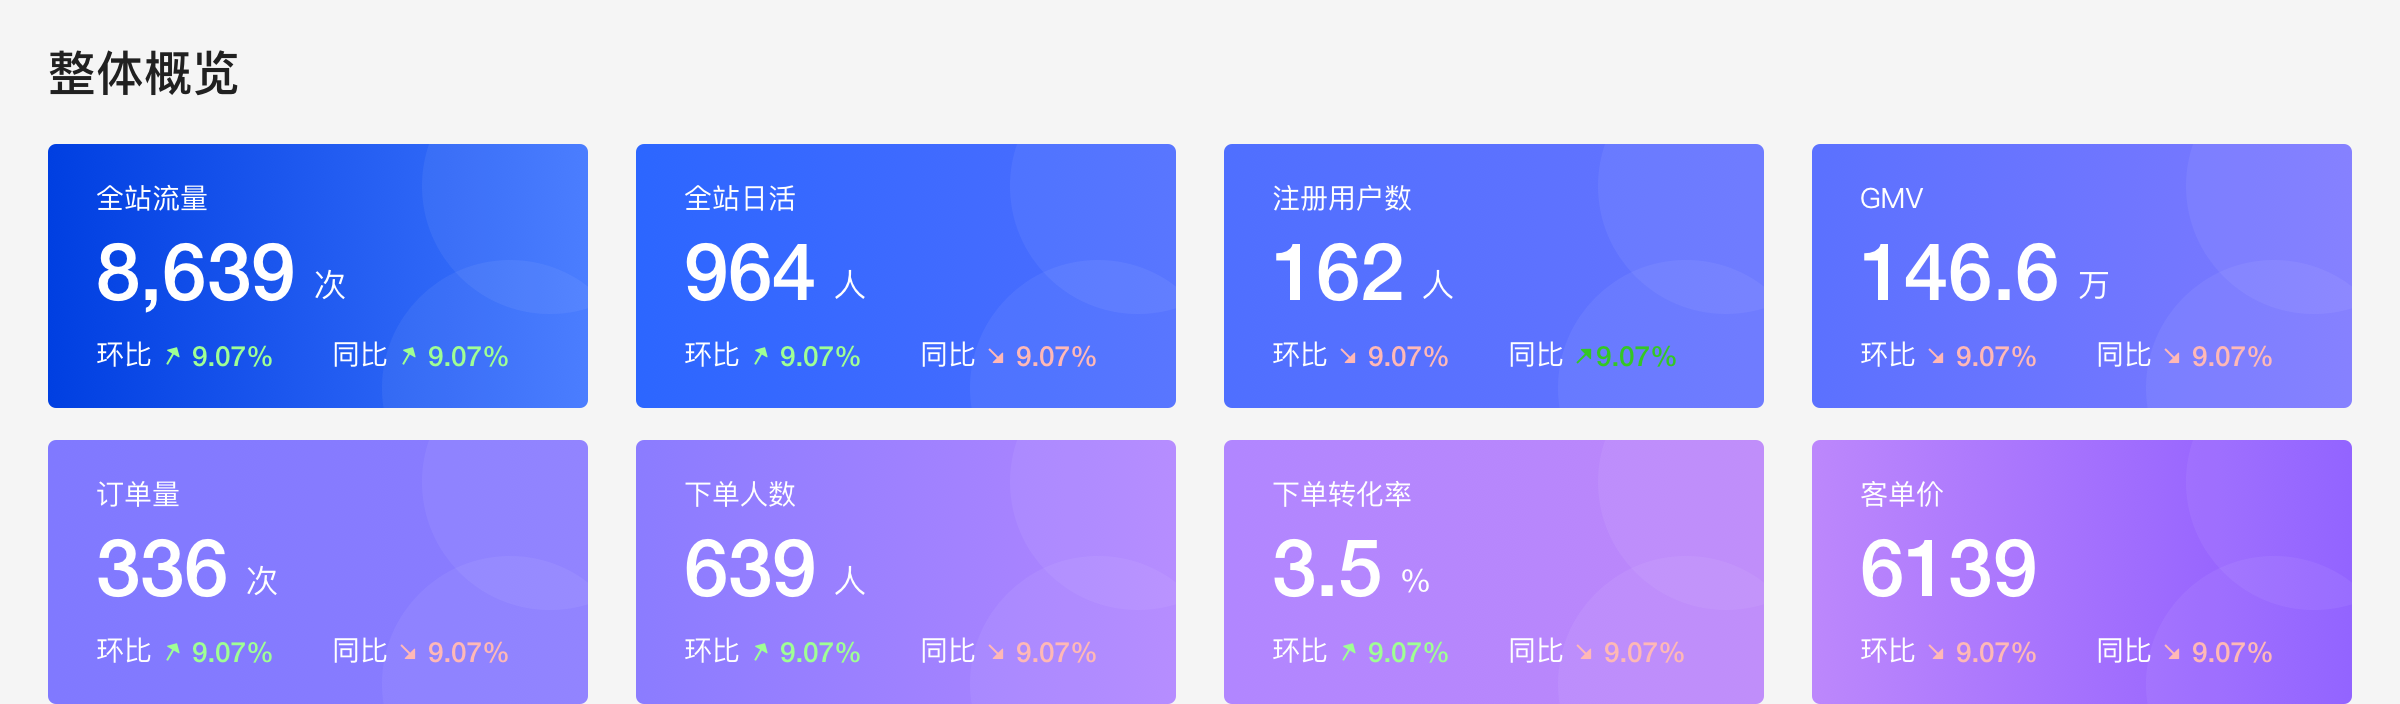
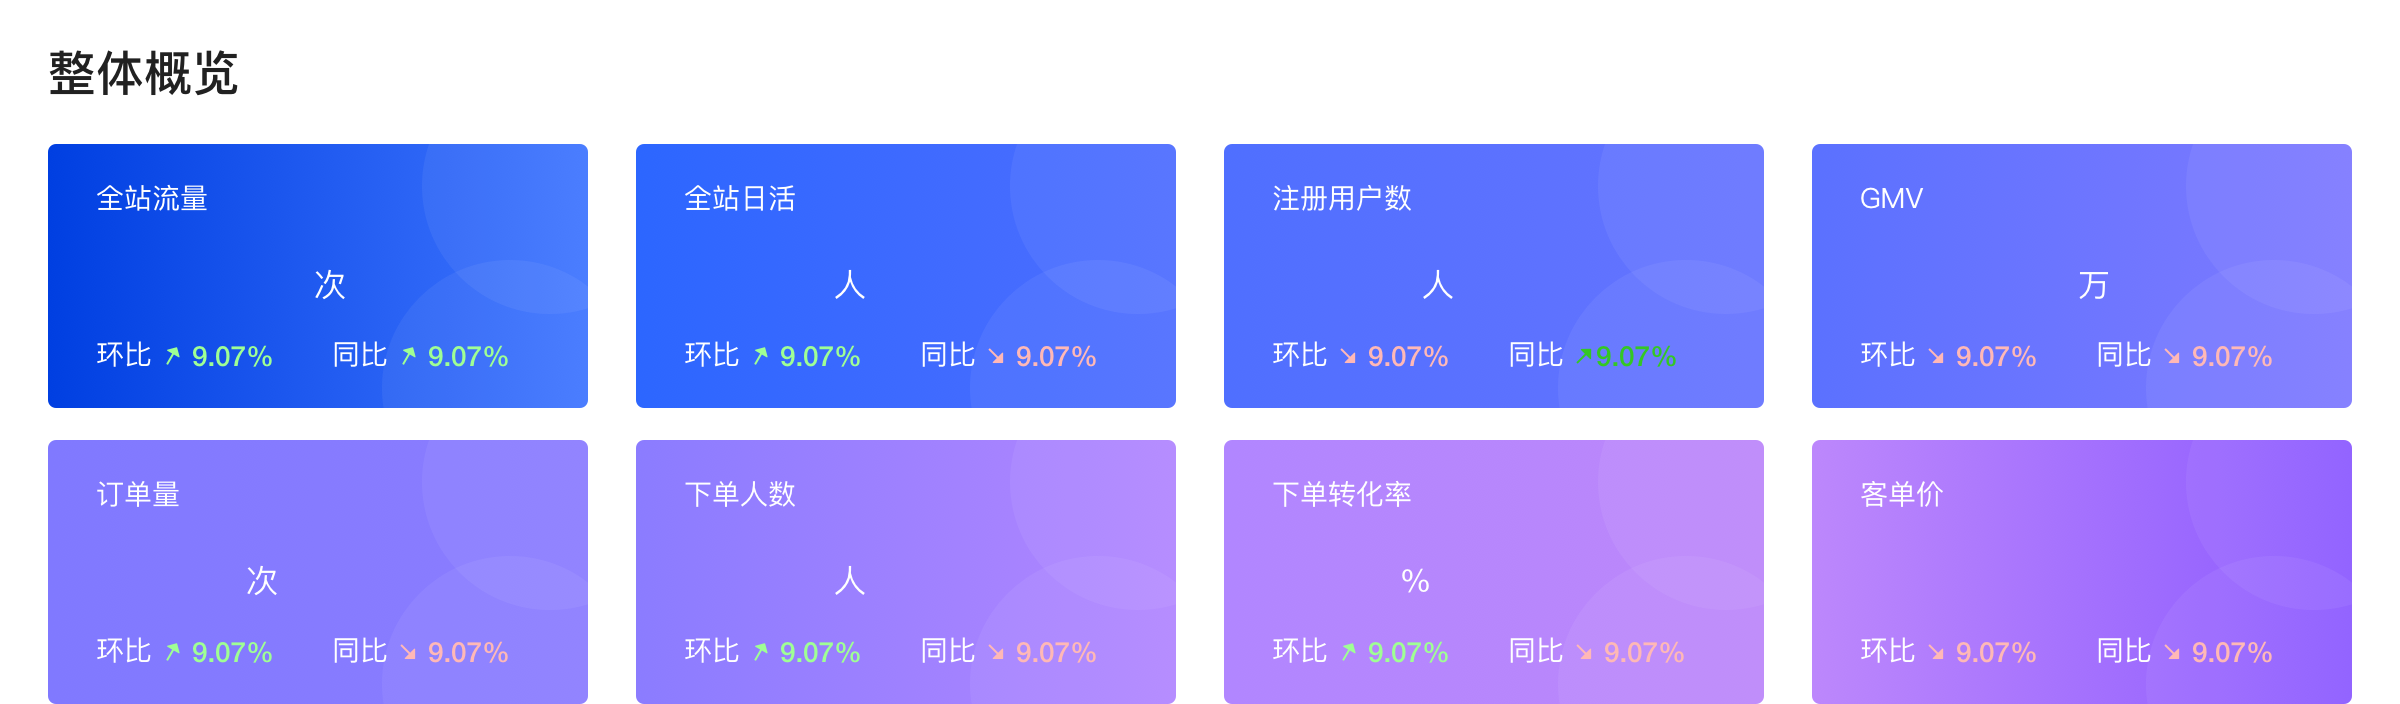
经营分析统计图

diff --git a/src/views/analysis/ztgl/anchor.vue b/src/views/analysis/ztgl/anchor.vue
@@ -2,16 +2,31 @@
   <div ref="anchor" class="anchor">
           <div id="zbjk">
               <img src="../../../static/img/analysis/zbjk.png" alt="">
-<!--              <iframe class="iframe1" src="/static/html/lxj1/num1.html" frameborder="0" scrolling="no"></iframe>-->
+              <iframe class="iframe iframe1" src="/static/html/lxj1/num.html" frameborder="0" scrolling="no"></iframe>
+              <iframe class="iframe iframe2" src="/static/html/lxj1/num1.html" frameborder="0" scrolling="no"></iframe>
+              <iframe class="iframe iframe3" src="/static/html/lxj1/num2.html" frameborder="0" scrolling="no"></iframe>
+              <iframe class="iframe iframe4" src="/static/html/lxj1/num3.html" frameborder="0" scrolling="no"></iframe>
+              <iframe class="iframe iframe5" src="/static/html/lxj1/num4.html" frameborder="0" scrolling="no"></iframe>
+              <iframe class="iframe iframe6" src="/static/html/lxj1/num5.html" frameborder="0" scrolling="no"></iframe>
+              <iframe class="iframe iframe7" src="/static/html/lxj1/num6.html" frameborder="0" scrolling="no"></iframe>
+              <iframe class="iframe iframe8" src="/static/html/lxj1/num7.html" frameborder="0" scrolling="no"></iframe>
           </div>
           <div id="ztqs">
               <img src="../../../static/img/analysis/ztqs.png" alt="">
+              <iframe class="iframe9" src="/static/html/lxj1/line1.html" frameborder="0" scrolling="no"></iframe>
+              <iframe class="iframe10" src="/static/html/lxj1/line2.html" frameborder="0" scrolling="no"></iframe>
+              <iframe class="iframe11" src="/static/html/lxj1/bar1.html" frameborder="0" scrolling="no"></iframe>
+              <iframe class="iframe12" src="/static/html/lxj1/line3.html" frameborder="0" scrolling="no"></iframe>
           </div>
           <div id="zzts">
               <img src="../../../static/img/analysis/zzts.png" alt="">
+              <iframe class="iframe13" src="/static/html/lxj1/line4.html" frameborder="0" scrolling="no"></iframe>
+              <iframe class="iframe14" src="/static/html/lxj1/line5.html" frameborder="0" scrolling="no"></iframe>
+              <iframe class="iframe15" src="/static/html/lxj1/line6.html" frameborder="0" scrolling="no"></iframe>
           </div>
           <div id="yhlc">
               <img src="../../../static/img/analysis/yhlc.png" alt="">
+              <iframe class="iframe16" src="/static/html/lxj1/bar2.html" frameborder="0" scrolling="no"></iframe>
           </div>
   </div>
 </template>
@@ -133,23 +148,142 @@ export default {
         }
             div{
                 width: 100%;
-                // height: 1000px;
             }
             #zbjk{
-                // padding: 0 24px;
-                // border:1px solid yellowgreen;
+                position: relative;
+
+                .iframe {
+                    position: absolute;
+                    width: 96px;
+                    height: 32px;
+                    z-index: 100;
+                }
+
+                .iframe1 {
+                    left: 48px;
+                    top: 120px;
+                }
+
+                .iframe2 {
+                    left: 320px;
+                    top: 120px;
+                }
+
+                .iframe3 {
+                    right: 484px;
+                    top: 120px;
+                }
+
+                .iframe4 {
+                    right: 190px;
+                    top: 120px;
+                }
+
+                .iframe5 {
+                    left: 34px;
+                    bottom: 58px;
+                }
+
+                .iframe6 {
+                    left: 320px;
+                    bottom: 58px;
+                }
+
+                .iframe7 {
+                    right: 486px;
+                    bottom: 58px;
+                }
+
+                .iframe8 {
+                    right: 174px;
+                    bottom: 58px;
+                }
             }
             #ztqs{
+                position: relative;
                 padding: 0 24px;
-                // border:1px solid blue;
+
+                .iframe9 {
+                    position: absolute;
+                    left: 42px;
+                    top: 110px;
+                    width: 45%;
+                    height: 220px;
+                    background: #fff;
+                }
+
+                .iframe10 {
+                    position: absolute;
+                    right: 50px;
+                    top: 110px;
+                    width: 45%;
+                    height: 220px;
+                    background: #fff;
+                }
+
+
+                .iframe11 {
+                    position: absolute;
+                    left: 42px;
+                    bottom: 34px;
+                    width: 45%;
+                    height: 220px;
+                    background: #fff;
+                }
+
+                .iframe12 {
+                    position: absolute;
+                    right: 50px;
+                    bottom: 34px;
+                    width: 45%;
+                    height: 220px;
+                    background: #fff;
+                }
             }
             #zzts{
+                position: relative;
                 padding: 0 24px;
-                //  border:1px solid green;
+
+                .iframe13 {
+                    position: absolute;
+                    left: 42px;
+                    top: 110px;
+                    width: 45%;
+                    height: 220px;
+                    background: #fff;
+                }
+
+                .iframe14 {
+                    position: absolute;
+                    right: 50px;
+                    top: 110px;
+                    width: 45%;
+                    height: 220px;
+                    background: #fff;
+                }
+
+
+                .iframe15 {
+                    position: absolute;
+                    left: 42px;
+                    bottom: 34px;
+                    width: 45%;
+                    height: 220px;
+                    background: #fff;
+                }
             }
             #yhlc{
+                position: relative;
                 padding: 0 24px;
-                // border:1px solid yellow;
+
+                .iframe16 {
+                    position: absolute;
+                    left: 30px;
+                    bottom: 40px;
+                    width: 1140px;
+                    height: 300px;
+                    background: #fff;
+                }
             }
     }
 </style>

diff --git a/public/static/html/lxj1/num1.html b/public/static/html/lxj1/num1.html
@@ -19,8 +19,8 @@
 			display:flex;
 			justify-content: center;
 			align-items: center;
-			font-size: 30px;
-			color:#333;
+			font-size: 40vw;
+			color:#fff;
 		}
 	</style>
 </head>
@@ -30,7 +30,7 @@
 
 	</div>
 	<script lang="javascript">
-		let num=964;
+		let num=702;
 		div.innerHTML=toThousands(num);
 		setInterval(()=>{
 			num+=3;

diff --git a/public/static/html/lxj1/line5.html b/public/static/html/lxj1/line5.html
@@ -39,12 +39,13 @@
 						trigger: 'axis'
 					},
 					legend: {
-						bottom:15,
+						bottom:0,
 						data: ['无购买意向', '深（兴趣较高）','浅（兴趣较低）']
 					},
 					grid: {
+						top: '5%',
 						left: '3%',
-						right: '4%',
+						right: '3%',
 						bottom: '10%',
 						containLabel: true
 					},

diff --git a/public/static/html/lxj1/line6.html b/public/static/html/lxj1/line6.html
@@ -39,12 +39,13 @@
 						trigger: 'axis'
 					},
 					legend: {
-						bottom:15,
+						bottom:0,
 						data: ['无购买意向', '深（兴趣较高）','浅（兴趣较低）']
 					},
 					grid: {
+						top: '5%',
 						left: '3%',
-						right: '4%',
+						right: '3%',
 						bottom: '10%',
 						containLabel: true
 					},

diff --git a/public/static/html/lxj1/bar2.html b/public/static/html/lxj1/bar2.html
@@ -43,12 +43,13 @@
 					}
 				},
 				legend: {
-					bottom:15,
+					bottom:0,
 					data: ['连续活跃用户', '流失用户', '沉默用户', '新用户', '回流用户']
 				},
 				grid: {
+					top: '5%',
 					left: '3%',
-					right: '4%',
+					right: '3%',
 					bottom: '10%',
 					containLabel: true
 				},

diff --git a/public/static/html/lxj1/line2.html b/public/static/html/lxj1/line2.html
@@ -39,12 +39,13 @@
 						trigger: 'axis'
 					},
 					legend: {
-						bottom:15,
+						bottom:0,
 						data: ['web端日活', 'app端日活','小程序端日活']
 					},
 					grid: {
+						top: '5%',
 						left: '3%',
-						right: '4%',
+						right: '3%',
 						bottom: '10%',
 						containLabel: true
 					},

diff --git a/public/static/html/lxj1/line1.html b/public/static/html/lxj1/line1.html
@@ -39,12 +39,13 @@
 						trigger: 'axis'
 					},
 					legend: {
-						bottom:15,
+						bottom: 0,
 						data: ['支付订单的订单实付金额的总和']
 					},
 					grid: {
+						top: '5%',
 						left: '3%',
-						right: '4%',
+						right: '3%',
 						bottom: '10%',
 						containLabel: true
 					},

diff --git a/public/static/html/lxj1/line3.html b/public/static/html/lxj1/line3.html
@@ -39,12 +39,13 @@
 						trigger: 'axis'
 					},
 					legend: {
-						bottom:15,
+						bottom:0,
 						data: ['$退出APP的$启动时长的均值']
 					},
 					grid: {
+						top: '5%',
 						left: '3%',
-						right: '4%',
+						right: '3%',
 						bottom: '10%',
 						containLabel: true
 					},

diff --git a/public/static/html/lxj1/line4.html b/public/static/html/lxj1/line4.html
@@ -39,12 +39,13 @@
 						trigger: 'axis'
 					},
 					legend: {
-						bottom:15,
+						bottom:0,
 						data: ['有认知', '无认知',]
 					},
 					grid: {
+						top: '5%',
 						left: '3%',
-						right: '4%',
+						right: '3%',
 						bottom: '10%',
 						containLabel: true
 					},

diff --git a/src/views/home/index.vue b/src/views/home/index.vue
@@ -127,7 +127,6 @@
                         width: 90px;
                         height: 32px;
                         background: #FFFFFF;
-                        text-align: left;
                     }
 
                     .iframe2 {

diff --git a/public/static/html/lxj1/bar1.html b/public/static/html/lxj1/bar1.html
@@ -39,8 +39,9 @@
 						trigger: 'axis'
 					},
 					grid: {
+						top: '5%',
 						left: '3%',
-						right: '4%',
+						right: '3%',
 						bottom: '10%',
 						containLabel: true
 					},

diff --git a/public/static/html/lxj1/num.html b/public/static/html/lxj1/num.html
@@ -19,8 +19,8 @@
 			display:flex;
 			justify-content: center;
 			align-items: center;
-			font-size: 30px;
-			color:#333;
+			font-size: 40vw;
+			color:#fff;
 		}
 	</style>
 </head>
